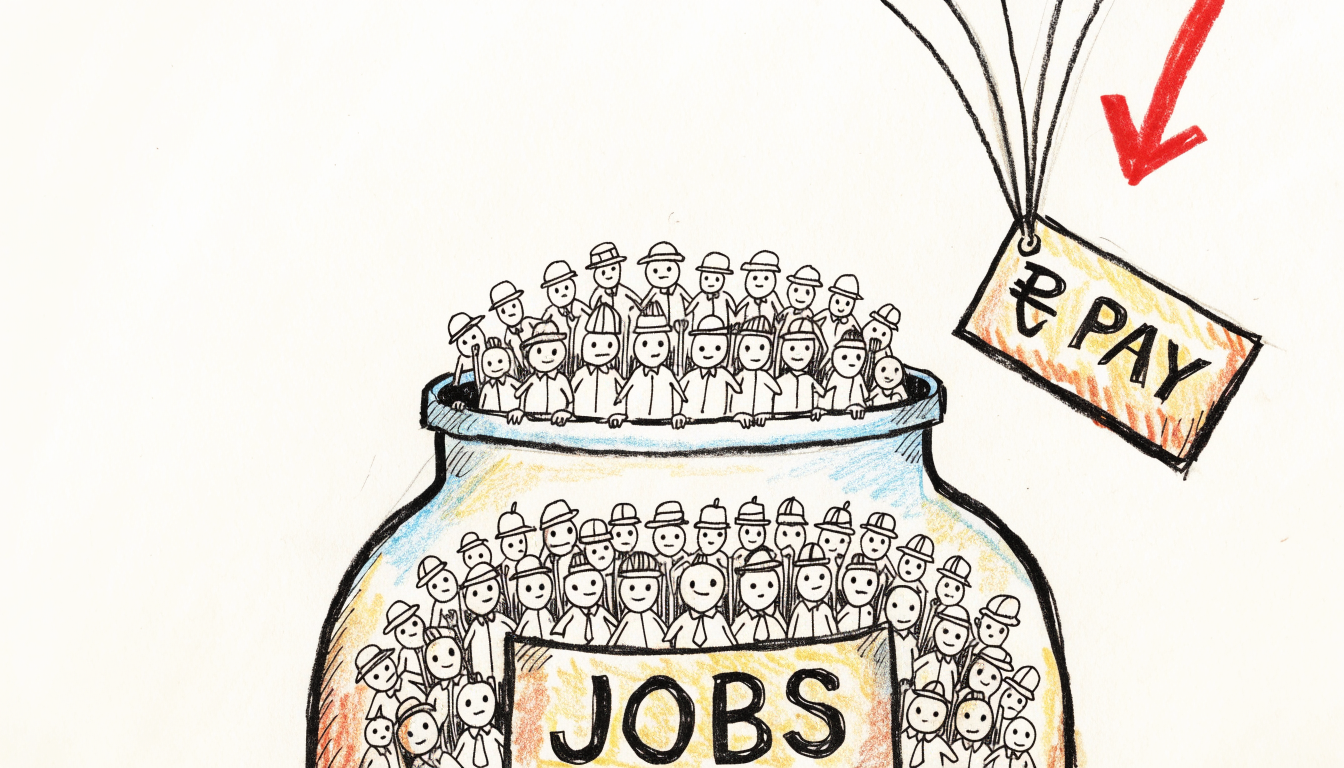
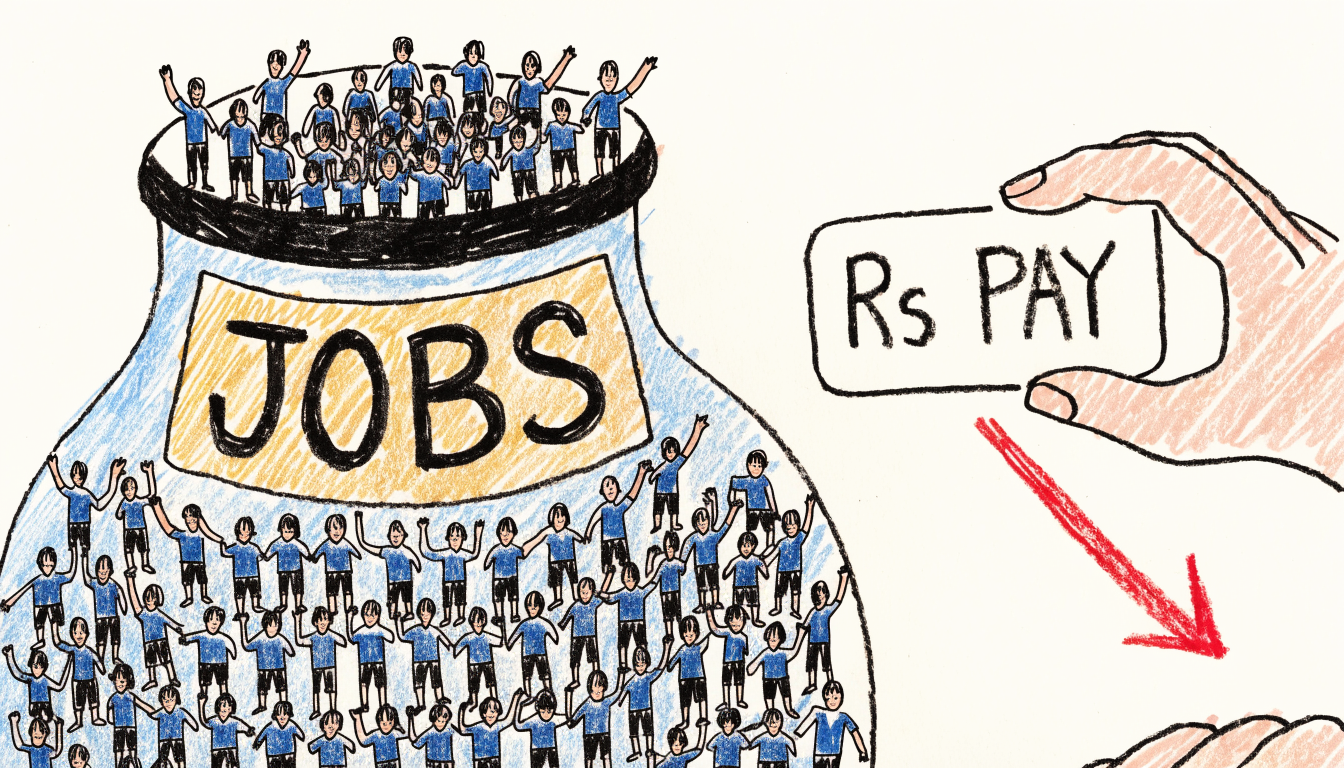
Reel-06: SC-02 use Pakistani Rs (not Indian rupee symbol)

diff --git a/Reel-06 - UK Khatam NZ Zinda/Reel-06_SCENE-PROMPTS.md b/Reel-06 - UK Khatam NZ Zinda/Reel-06_SCENE-PROMPTS.md
@@ -47,8 +47,9 @@ CHARACTER FILES: `Student 2.png` (light-blue shirt, glasses) · `Good COnsultant
 **SC-02 — The overstuffed jobs jar** · OBJECT · recraft-v4-1
 > [STYLE BLOCK]. Concept: a giant glass jar / tin labeled "JOBS" crammed with far too many tiny
 > identical job-seeker figures squished together, more piling on top trying to climb in. To the side
-> a salary tag reading "₨ PAY" being squeezed smaller with a big red downward arrow. Metaphor:
-> saturated market, shrinking pay.
+> a salary tag reading "Rs PAY" being squeezed smaller with a big red downward arrow (write money as
+> the plain letters "Rs" for Pakistani Rupees — NOT the Indian ₹ symbol). Metaphor: saturated market,
+> shrinking pay.
 
 ---
 
